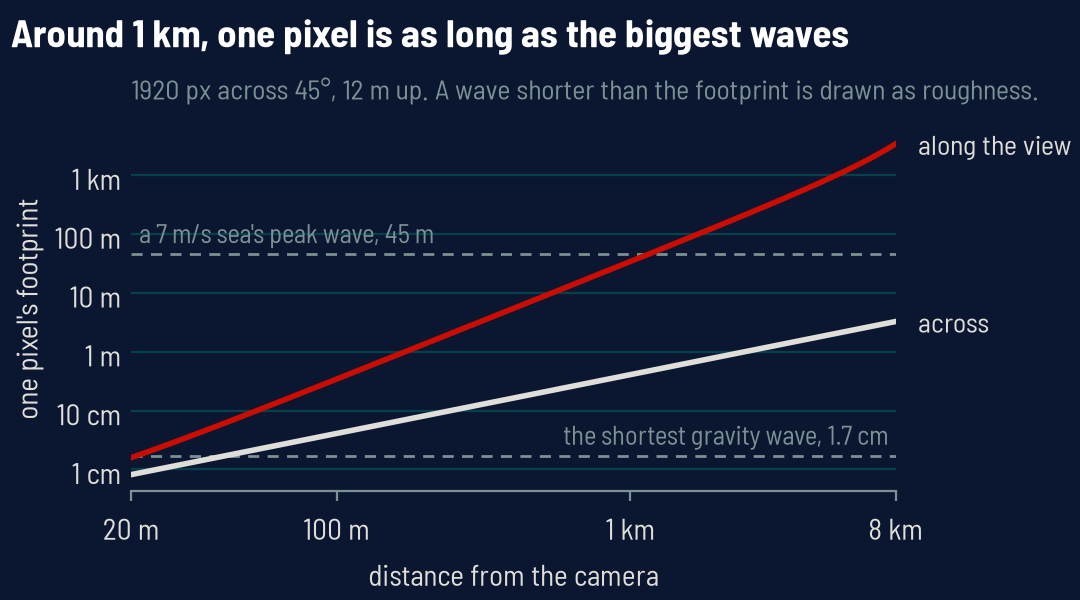
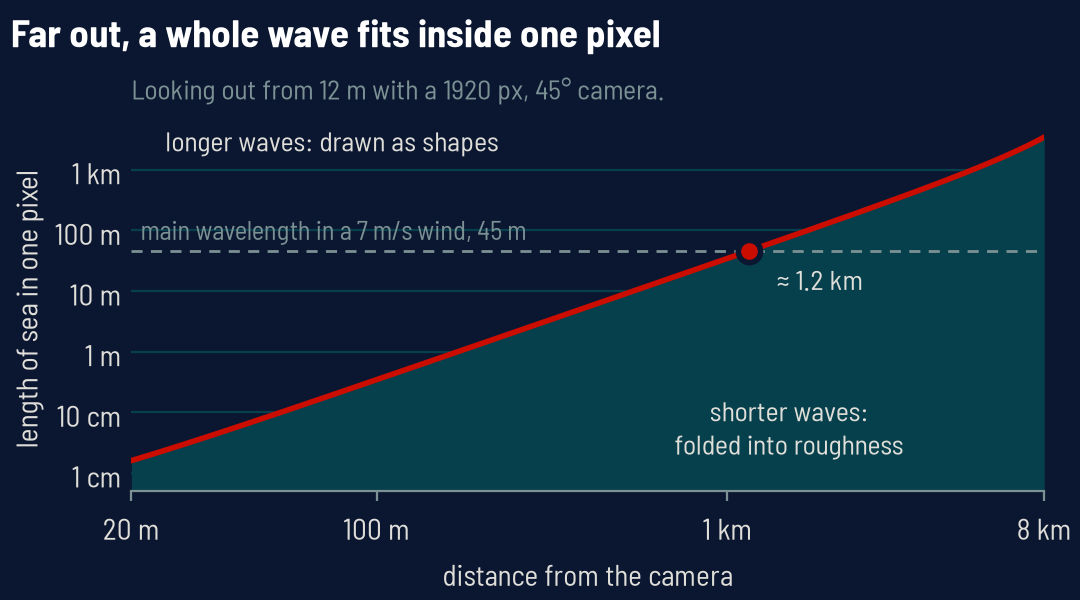
docs: the footprint chart as one line, shaded by what gets drawn
Claude-Session: https://claude.ai/code/session_01Ecgti8s4UQ6WWBMa2RYxh5

diff --git a/docs/primer/charts.py b/docs/primer/charts.py
@@ -22,9 +22,6 @@ REFRACTION_K = Sea().refraction_k
 HEIGHT_M, WIDTH_PX, HFOV_DEG = 12.0, 1920, 45.0
 # IAU 2015 Resolution B3: the sun's nominal effective temperature.
 SUN_K = 5772.0
-# The shortest gravity wave, where capillarity takes over: lambda = 2 pi sqrt(sigma /
-# rho g), 1.7 cm for seawater (Lamb, Hydrodynamics, section 267).
-CAPILLARY_M = 0.017
 
 THEMES = {
     "light": {
@@ -105,27 +102,38 @@ def footprint(ax: Axes, t: dict) -> None:
     across = d_m * math.radians(HFOV_DEG) / WIDTH_PX
     along = across / np.sin(np.arctan(HEIGHT_M / d_m) - d_m / (2 * radius_m))
     peak_m = 2 * math.pi * waves.GRAVITY_MS2 / waves.peak_omega_rad_s(7.0) ** 2
-    reference(ax, t, peak_m, f"a 7 m/s sea's peak wave, {peak_m:.0f} m")
-    reference(
-        ax,
-        t,
-        CAPILLARY_M,
-        f"the shortest gravity wave, {CAPILLARY_M * 100:.1f} cm",
-        x=0.99,
+    bottom = 0.005
+    ax.fill_between(d_m, bottom, along, color=t["grid"], lw=0, zorder=0)
+    ax.plot(d_m, along, color=t["series"][0], lw=2)
+    reference(ax, t, peak_m, f"main wavelength in a 7 m/s wind, {peak_m:.0f} m")
+    cross_m = float(np.interp(peak_m, along, d_m))
+    ax.plot(cross_m, peak_m, "o", ms=8, color=t["series"][0], mec=t["surface"], mew=2)
+    ax.annotate(
+        f"≈ {cross_m / 1000:.1f} km",
+        (cross_m, peak_m),
+        xytext=(10, -14),
+        textcoords="offset points",
+        color=t["secondary"],
+        fontsize=10,
     )
-    for colour, y, name in zip(
-        t["series"], (along, across), ("along the view", "across"), strict=False
-    ):
-        ax.plot(d_m, y, color=colour, lw=2, label=name)
-        label_end(ax, t, d_m[-1], y[-1], name)
+    ax.text(25, 2000, "longer waves: drawn as shapes", color=t["secondary"], size=10)
+    ax.text(
+        1500,
+        0.02,
+        "shorter waves:\nfolded into roughness",
+        color=t["secondary"],
+        size=10,
+        ha="center",
+    )
     ax.set_xscale("log")
     ax.set_yscale("log")
     ax.set_xlim(20, 8000)
+    ax.set_ylim(bottom, 5000)
     ax.set_xticks([20, 100, 1000, 8000], ["20 m", "100 m", "1 km", "8 km"])
     ticks = [0.01, 0.1, 1, 10, 100, 1000]
     ax.set_yticks(ticks, ["1 cm", "10 cm", "1 m", "10 m", "100 m", "1 km"])
     ax.set_xlabel("distance from the camera")
-    ax.set_ylabel("one pixel's footprint")
+    ax.set_ylabel("length of sea in one pixel")
 
 
 def hidden(ax: Axes, t: dict) -> None:
@@ -174,9 +182,9 @@ CHARTS = {
         glow,
     ),
     "footprint": (
-        "Around 1 km, one pixel is as long as the biggest waves",
-        f"{WIDTH_PX} px across {HFOV_DEG:.0f}°, {HEIGHT_M:.0f} m up. "
-        "A wave shorter than the footprint is drawn as roughness.",
+        "Far out, a whole wave fits inside one pixel",
+        f"Looking out from {HEIGHT_M:.0f} m "
+        f"with a {WIDTH_PX} px, {HFOV_DEG:.0f}° camera.",
         footprint,
     ),
     "hidden": (

diff --git a/docs/primer/README.md b/docs/primer/README.md
@@ -62,7 +62,7 @@ The obvious way to make waves in Blender is the Ocean modifier, which moves a me
 <p align="center">
   <picture>
     <source media="(prefers-color-scheme: dark)" srcset="charts/footprint-dark.png">
-    <img src="charts/footprint-light.png" width="60%" alt="Pixel footprint against distance: along the view it grows past a 7 m/s sea's 45 m peak wave near 1 km; across the view it stays a few metres">
+    <img src="charts/footprint-light.png" width="60%" alt="Length of sea one pixel covers against distance: it passes the 45 m main wavelength of a 7 m/s wind near 1 km, and shorter waves become roughness">
   </picture>
 </p>
 
